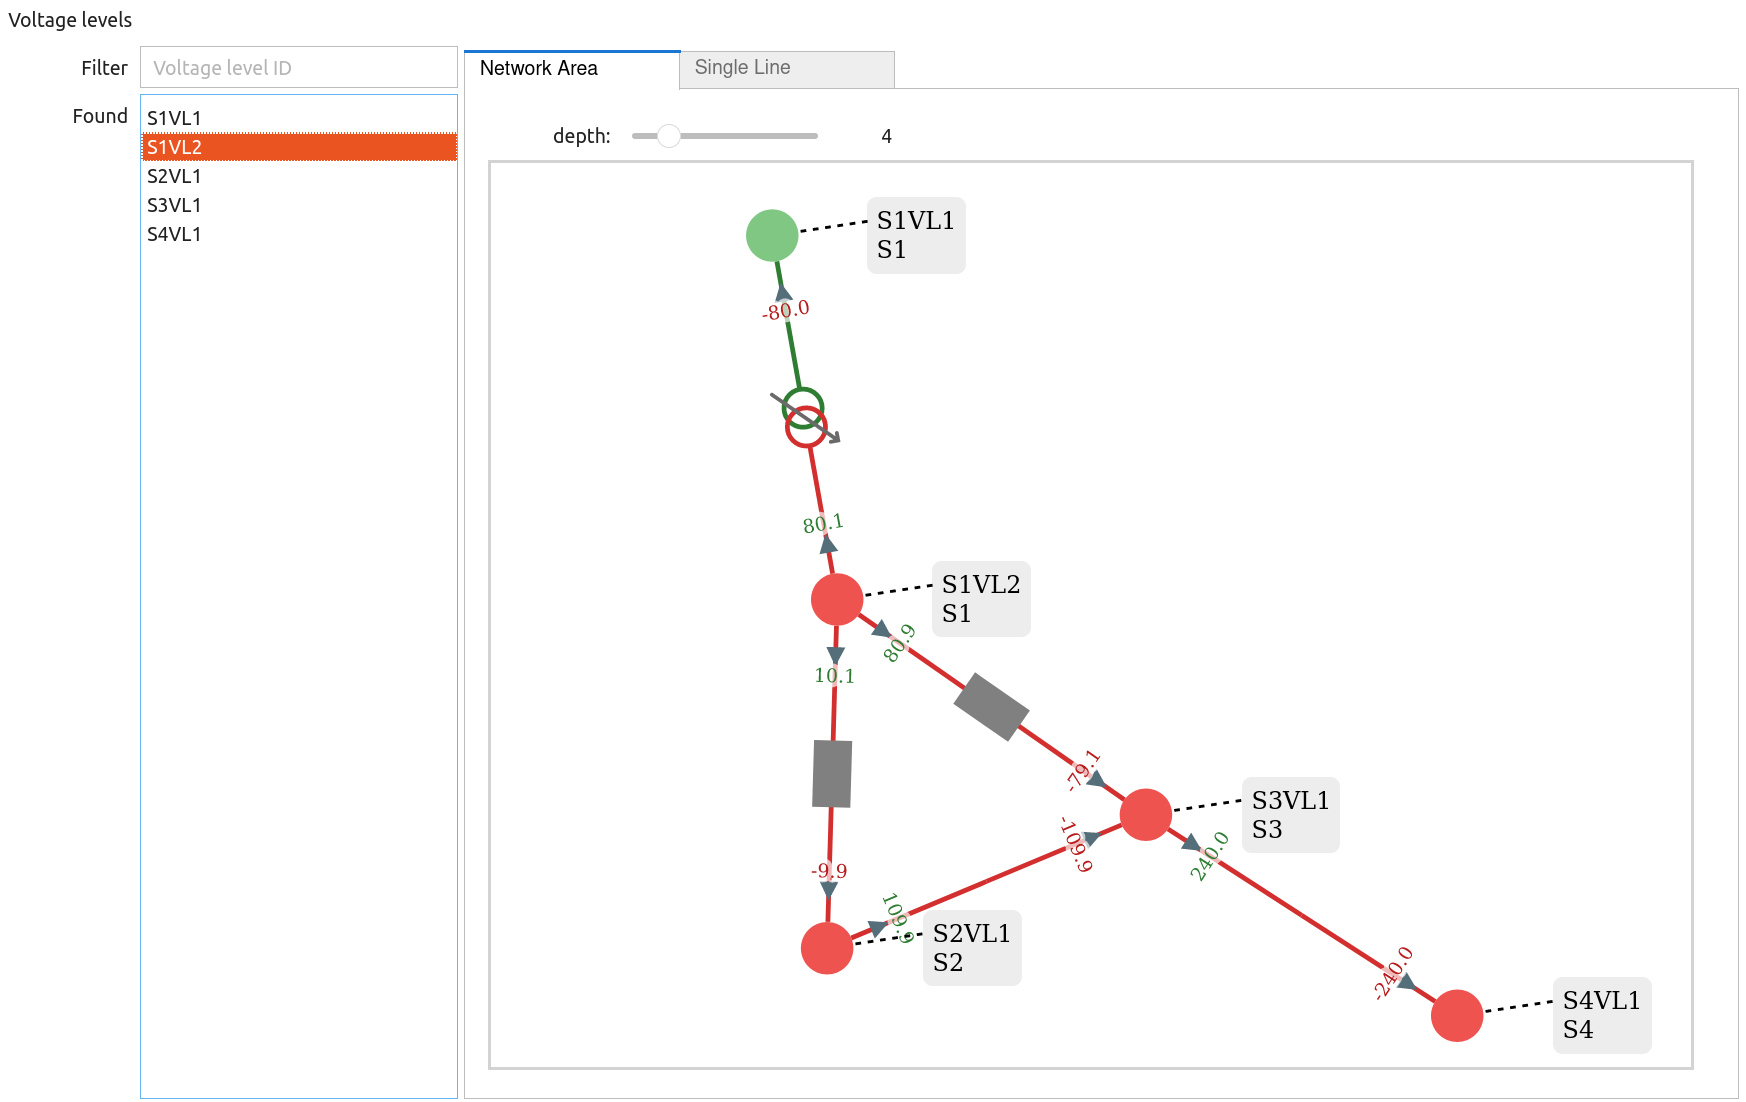
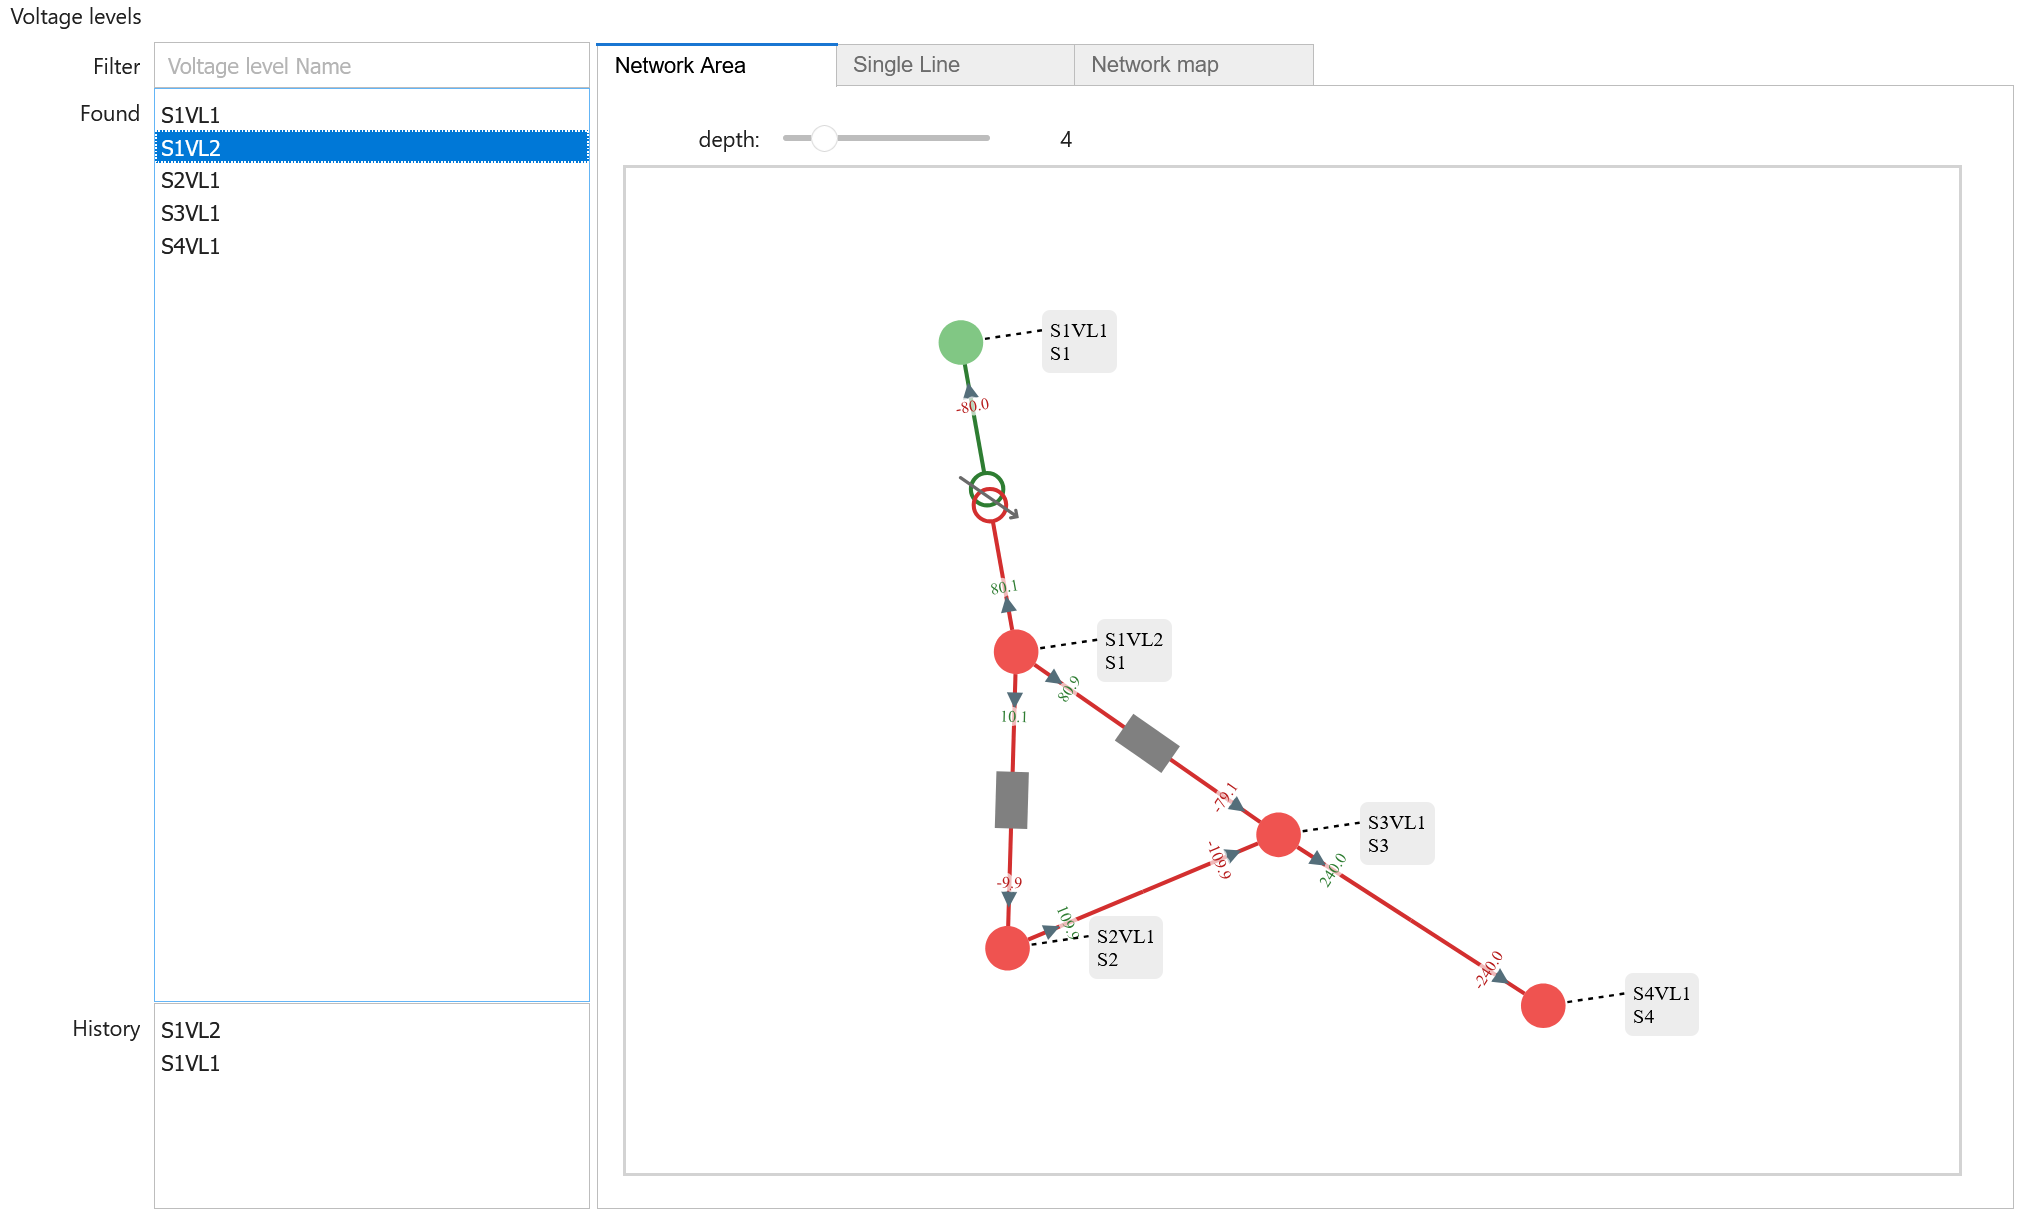
displayed VLs history (#17)
* adds a history section to the explorer
* improve explorer's elements alignments and sizes.
* updates docs' screenshots to include the history box

diff --git a/js/sldwidget.ts b/js/sldwidget.ts
@@ -78,10 +78,10 @@ function render({ model, el }: RenderProps<SldWidgetModel>) {
             svg_data,
             metadata ? JSON.parse(metadata) : null,
             'voltage-level',
-            500,
+            800,
             600,
-            1000,
-            1200,
+            800,
+            600,
             metadata ? handleNextVl : null, //callback on the next voltage arrows
             metadata ? handleSwitch : null, //callback on the breakers
             metadata ? handleFeeder : null, //callback on the feeders

diff --git a/src/pypowsybl_jupyter/networkexplorer.py b/src/pypowsybl_jupyter/networkexplorer.py
@@ -41,7 +41,7 @@ def network_explorer(network: Network, vl_id : str = None, use_name:bool = True,
             network_explorer(pp.network.create_eurostag_tutorial_example1_network())
     """    
 
-    sel_ctx=SelectContext(network, vl_id, use_name)
+    sel_ctx=SelectContext(network, vl_id, use_name, history_max_length = 10)
 
     nad_widget=None
     sld_widget=None
@@ -61,34 +61,38 @@ def network_explorer(network: Network, vl_id : str = None, use_name:bool = True,
     
     spars=sld_parameters if sld_parameters is not None else SldParameters(use_name=use_name, nodes_infos=True)
 
-    def set_current_vl(id):
-        sel_ctx.extend_filtered_vls(id)
-        found.value=None
-        found.options=sel_ctx.get_filtered_vls_as_list()
-        sel_ctx.set_selected(id)
-        found.value=sel_ctx.get_selected()	        
-
     def go_to_vl(event: any):
         arrow_vl= str(event.clicked_nextvl)
-        set_current_vl(arrow_vl)
+        if arrow_vl != sel_ctx.get_selected():
+            sel_ctx.set_selected(arrow_vl, add_to_history=True)
+            update_select_widget(history, sel_ctx.get_selected(), sel_ctx.get_history_as_list(), on_selected_history)
+            update_select_widget(found, sel_ctx.get_selected() if sel_ctx.is_selected_in_filtered_vls() else None, None, on_selected)
+            update_explorer()
+        history.focus()
+        
 
     def toggle_switch(event: any):
         idswitch = event.clicked_switch.get('id')
         statusswitch = event.clicked_switch.get('switch_status')
         network.update_switches(id=idswitch, open=statusswitch)
-        update_sld_diagram(True)
-        update_nad_diagram()
+        update_sld_diagram(sel_ctx.get_selected(), True)
+        update_nad_diagram(sel_ctx.get_selected())
 
     def go_to_vl_from_map(event: any):
         vl_from_map= str(event.selected_vl)
-        set_current_vl(vl_from_map)
+        if vl_from_map != sel_ctx.get_selected():
+            sel_ctx.set_selected(vl_from_map, add_to_history=True)
+            update_select_widget(history, sel_ctx.get_selected(), sel_ctx.get_history_as_list(), on_selected_history)
+            update_select_widget(found, sel_ctx.get_selected() if sel_ctx.is_selected_in_filtered_vls() else None, None, on_selected)
+            update_explorer()
+        history.focus()
         #switch to the SLD tab
         tabs_diagrams.selected_index=1
 
-    def update_nad_diagram():
+    def update_nad_diagram(el):
         nonlocal nad_widget
-        if sel_ctx.get_selected() is not None:
-            new_diagram_data=network.get_network_area_diagram(voltage_level_ids=sel_ctx.get_selected(), 
+        if el is not None:
+            new_diagram_data=network.get_network_area_diagram(voltage_level_ids=el, 
                                                               depth=selected_depth, high_nominal_voltage_bound=high_nominal_voltage_bound, 
                                                               low_nominal_voltage_bound=low_nominal_voltage_bound, nad_parameters=npars)
             if nad_widget==None:
@@ -96,10 +100,10 @@ def network_explorer(network: Network, vl_id : str = None, use_name:bool = True,
             else:
                 update_nad(nad_widget,new_diagram_data)
 
-    def update_sld_diagram(kv: bool = False):
+    def update_sld_diagram(el, kv: bool = False):
         nonlocal sld_widget
-        if sel_ctx.get_selected() is not None:
-            sld_diagram_data=network.get_single_line_diagram(sel_ctx.get_selected(), spars)
+        if el is not None:
+            sld_diagram_data=network.get_single_line_diagram(el, spars)
             if sld_widget==None:
                 sld_widget=display_sld(sld_diagram_data, enable_callbacks=True)
                 sld_widget.on_nextvl(lambda event: go_to_vl(event))
@@ -108,23 +112,22 @@ def network_explorer(network: Network, vl_id : str = None, use_name:bool = True,
             else:
                 update_sld(sld_widget, sld_diagram_data, keep_viewbox=kv, enable_callbacks=True)
 
-    def update_map():
+    def update_map(el):
         nonlocal map_widget
-        if sel_ctx.get_selected() is not None:
+        if el is not None:
             if map_widget==None:
-                map_widget=NetworkMapWidget(network, use_name=use_name, nominal_voltages_top_tiers_filter = nominal_voltages_top_tiers_filter, use_line_geodata = use_line_geodata)
+                map_widget=NetworkMapWidget(network, use_name=use_name, nominal_voltages_top_tiers_filter = nominal_voltages_top_tiers_filter)
                 map_widget.on_selectvl(lambda event : go_to_vl_from_map(event))
-
             else:
-                map_widget.center_on_voltage_level(sel_ctx.get_selected())
-
+                map_widget.center_on_voltage_level(el)
+    
     nadslider = widgets.IntSlider(value=selected_depth, min=0, max=20, step=1, description='depth:', disabled=False, 
                                   continuous_update=False, orientation='horizontal', readout=True, readout_format='d')
 
     def on_nadslider_changed(d):
         nonlocal selected_depth
         selected_depth=d['new']
-        update_nad_diagram()
+        update_nad_diagram(sel_ctx.get_selected())
 
     nadslider.observe(on_nadslider_changed, names='value')
 
@@ -134,53 +137,90 @@ def network_explorer(network: Network, vl_id : str = None, use_name:bool = True,
         description='Filter',
         disabled=False,
         continuous_update=True,
-        layout=widgets.Layout(width='350px')
+        layout=widgets.Layout(flex='2%', height='100%', width='350px', margin='1px 0 0 0')
     )
 
+    def update_select_widget(widget, el, elements=None, on_select=None):
+        if on_select:
+            widget.unobserve(on_select, names='value')
+        try:
+            if elements is not None:
+                widget.value = None
+                widget.options = elements
+
+            widget.value = el
+        
+        finally:
+            if on_select:
+                widget.observe(on_select, names='value')
+
+    
     def on_text_changed(d):
         nonlocal found
         sel_ctx.apply_filter(d['new'])
-        found.value=None
-        found.options = sel_ctx.get_filtered_vls_as_list()
-        if sel_ctx.is_selected_in_filtered_vls():
-            found.value=sel_ctx.get_selected()
+        sel = sel_ctx.get_selected() if sel_ctx.is_selected_in_filtered_vls() else None
+        opts = sel_ctx.get_filtered_vls_as_list()
+        update_select_widget(found, sel, opts, on_selected)
 
     vl_input.observe(on_text_changed, names='value')
     
     found = widgets.Select(
         options=sel_ctx.get_filtered_vls_as_list(),
-        value=sel_ctx.get_selected(),
+        value=None,
         description='Found',
         disabled=False,
-        layout=widgets.Layout(width='350px', height='670px')
+        layout=widgets.Layout(flex='80%', height='100%', width='350px', margin='0 0 0 0')
     )
 
     def on_selected(d):
         if d['new'] != None:
-            sel_ctx.set_selected(d['new'])
-            update_nad_diagram()
-            update_sld_diagram()
-            update_map()
+            sel_ctx.set_selected(d['new'], add_to_history=True)
+            update_select_widget(history, None, sel_ctx.get_history_as_list(), on_selected_history)
+            update_explorer()
 
     found.observe(on_selected, names='value')
 
-    update_nad_diagram()
-    update_sld_diagram()
-    update_map()
+    history = widgets.Select(
+        options=sel_ctx.get_history_as_list(),
+        value=sel_ctx.get_selected(),
+        description='History',
+        disabled=False,
+        layout=widgets.Layout(flex='18%', height='100%', width='350px', margin='1px 0 0 0')
+    )
 
-    left_panel = widgets.VBox([widgets.Label('Voltage levels'), vl_input, found])
-    
+    def on_selected_history(d):
+        if d['new'] != None:
+            sel_ctx.set_selected(d['new'], add_to_history=False)
+            update_select_widget(found, sel_ctx.get_selected() if sel_ctx.is_selected_in_filtered_vls() else None, None, on_selected)
+            update_explorer()
+
+    history.observe(on_selected_history, names='value')
+
+    def update_explorer():
+        sel=sel_ctx.get_selected()
+        update_nad_diagram(sel)
+        update_sld_diagram(sel)
+        update_map(sel)
+
+    update_explorer()
+
+    voltage_levels_label=widgets.Label("Voltage levels")
+    spacer_label=widgets.Label("")
+
+    left_panel = widgets.VBox([vl_input, found, history], layout=widgets.Layout(width='100%', height='100%', display='flex', flex_flow='column'))
+
     right_panel_nad = widgets.VBox([nadslider, nad_widget])
-    right_panel_sld = widgets.HBox([sld_widget])
-    right_panel_map = widgets.HBox([map_widget])
+    right_panel_sld = widgets.VBox([spacer_label,sld_widget])
+    right_panel_map = widgets.VBox([spacer_label, map_widget])
 
     tabs_diagrams = widgets.Tab()
     tabs_diagrams.children = [right_panel_nad, right_panel_sld, right_panel_map]
     tabs_diagrams.titles = ['Network Area', 'Single Line', 'Network map']
-    tabs_diagrams.layout=widgets.Layout(width='850px', height='700px')
-    
-    hbox = widgets.HBox([left_panel, tabs_diagrams])
-    hbox.layout.align_items='flex-end'
+    tabs_diagrams.layout=widgets.Layout(width='850px', height='700px', margin='0 0 0 4px')
+
+    left_vbox = widgets.VBox([voltage_levels_label, left_panel])
+    right_vbox = widgets.VBox([spacer_label, tabs_diagrams])
+
+    hbox = widgets.HBox([left_vbox, right_vbox])
 
     return hbox
-    

diff --git a/src/pypowsybl_jupyter/selectcontext.py b/src/pypowsybl_jupyter/selectcontext.py
@@ -5,13 +5,13 @@
 # SPDX-License-Identifier: MPL-2.0
 #
 
-from collections import OrderedDict
 import pandas as pd
+from collections import deque
 from pypowsybl.network import Network
 
 class SelectContext:
 
-    def __init__(self, network:Network = None, vl_id : str = None, use_name:bool = True):
+    def __init__(self, network:Network = None, vl_id : str = None, use_name:bool = True, history_max_length:int = -1):
         self.network = network
         self.use_name = use_name
         self.display_attribute = 'name' if use_name else 'id'
@@ -24,14 +24,19 @@ class SelectContext:
 
         self.apply_filter(None)
 
+        self.history = deque(maxlen=None if history_max_length == -1 else history_max_length)
+
         self.set_selected(self.vls.index[0] if vl_id is None else vl_id)
 
     def get_vls(self):
         return self.vls
     
-    def set_selected(self, id):
+    def set_selected(self, id, add_to_history=True):
         if id in self.vls.index:
             self.selected_vl = id
+            last_id_from_history=self.history[0]['id'] if len(self.history)>0 else None
+            if add_to_history and self.selected_vl != last_id_from_history:
+                self.add_to_history(id)
         else:
             raise ValueError(f'a voltage level with id={id} does not exist in the network.')
 
@@ -54,3 +59,11 @@ class SelectContext:
     def extend_filtered_vls(self, id):
         if (id in self.vls.index) and (id not in self.vls_filtered.index):
             self.vls_filtered = pd.concat([self.vls_filtered, self.vls.loc[[id]]])
+
+    def add_to_history(self, id):
+        if (id in self.vls.index):
+            row_to_add = self.vls.loc[id].to_dict()
+            self.history.appendleft(row_to_add)
+
+    def get_history_as_list(self):
+        return [(item[self.display_attribute], item['id']) for item in self.history]

diff --git a/docs/user_guide/network_explorer.md b/docs/user_guide/network_explorer.md
@@ -2,7 +2,7 @@
 
 Network explorer is interactive network explorer widget, built on pypowsybl-jupyter's widgets (SLD, NAD, Network map) and some standard [ipywidgets](https://ipywidgets.readthedocs.io/en/stable/index.html): select lists, tabs, etc.
 
-Through the widget, you can select a voltage level from the list (or search of a specific one using the Filter) and the NAD and SLD diagrams for that voltage level will be displayed in the two "Network Area" and "Single Line" tabs, respectively. Both diagrams can be panned and zoomed. A third tab, 'Network map' displays the network's substations and lines on a map, if substations and lines geo data is available in the network.
+Through the widget, you can select a voltage level from the list (or search of a specific one using the Filter) and the NAD and SLD diagrams for that voltage level will be displayed in the two "Network Area" and "Single Line" tabs, respectively. Both diagrams can be panned and zoomed. A third tab, 'Network map' displays the network's substations and lines on a map, if substations and lines geo data is available in the network. The last displayed voltage levels are listed in a history box, on the explorer's bottom left corner.
 
 The following code, to be run in a notebook, first creates a network, then displays the network explorer on it.
 
